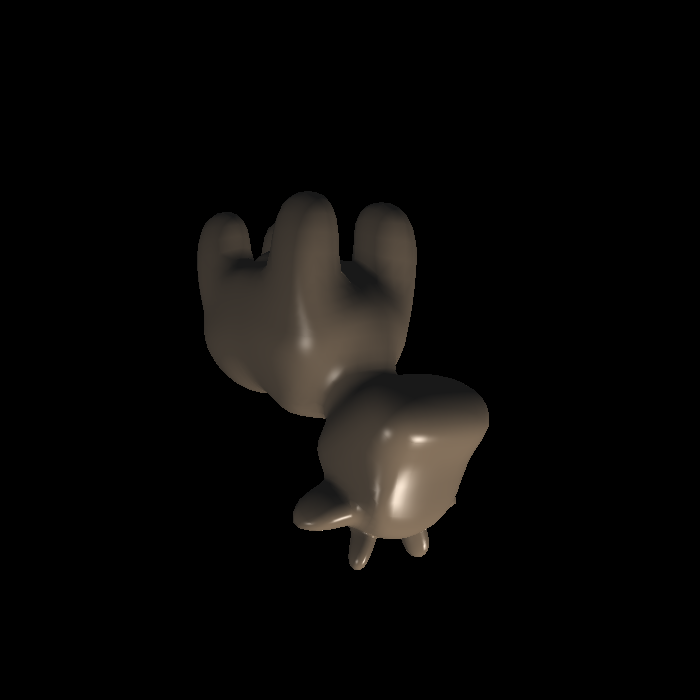
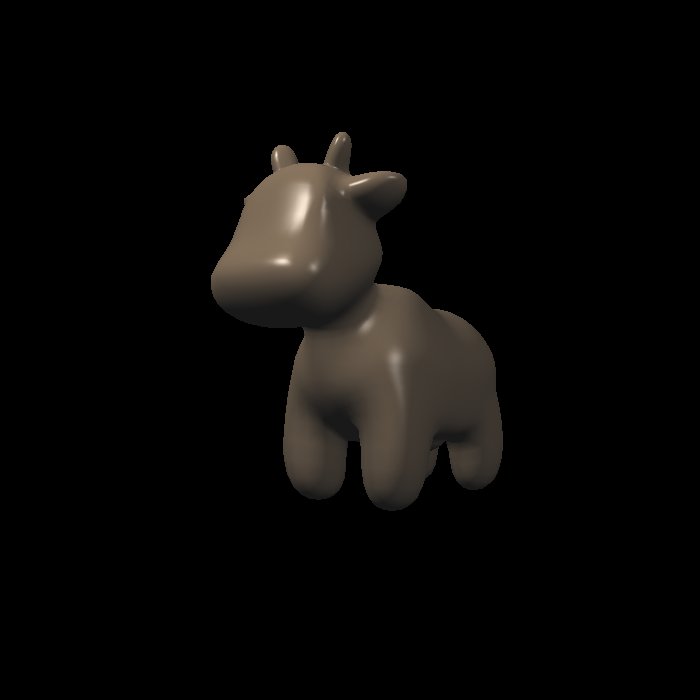
Solve the problem about reverse

Changed region(s): [[0.27, 0.18, 0.72, 0.81]]

diff --git a/GAMES3/rasterizer.cpp b/GAMES3/rasterizer.cpp
@@ -280,7 +280,7 @@ void rst::rasterizer::rasterize_triangle(const Triangle& t, const std::array<Eig
             // predefine the value of pixels 
             float minDepth = FLT_MAX;
 
-                // if a sample point of a pixel located in a triangle
+            // if a sample point of a pixel located in a triangle
             if (insideTriangle(x + 0.5f, y + 0.5f, t.v))
             {
                 // barycentric coordinates
@@ -294,7 +294,7 @@ void rst::rasterizer::rasterize_triangle(const Triangle& t, const std::array<Eig
                 float Z = 1.0f / (alpha / v[0].w() + beta / v[1].w() + gamma / v[2].w());
                 float zp = alpha * v[0].z() / v[0].w() + beta * v[1].z() / v[1].w() + gamma * v[2].z() / v[2].w();
                 zp *= Z;
-                zp = std::min(minDepth, zp);
+                zp = -std::min(minDepth, zp);
 
                 if (zp < depth_buf[get_index(x, y)])
                 {

diff --git a/GAMES3/main.cpp b/GAMES3/main.cpp
@@ -62,8 +62,8 @@ Eigen::Matrix4f get_projection_matrix(float eye_fov, float aspect_ratio, float z
     float r = aspect_ratio * t;
     float l = -r;
     float b = -t;
-    float n = zNear;
-    float f = zFar;
+    float n = -zNear;
+    float f = -zFar;
 
     // build a matrix of orthographic projection
     Eigen::Matrix4f orthoA(4, 4);
@@ -89,7 +89,7 @@ Eigen::Matrix4f get_projection_matrix(float eye_fov, float aspect_ratio, float z
         0.0f, 0.0f, 1.0f, 0.0f;
 
     // compute the projection matrix
-    projection = ortho * pto;
+    projection *= ortho * pto;
 
     return projection;
 }

diff --git a/GAMES2/main.cpp b/GAMES2/main.cpp
@@ -44,8 +44,8 @@ Eigen::Matrix4f get_projection_matrix(float eye_fov, float aspect_ratio,
     float r = aspect_ratio * t;
     float l = -r;
     float b = -t;
-    float n = zNear;
-    float f = zFar;
+    float n = -zNear;
+    float f =-zFar;
 
     // build a matrix of orthographic projection
     Eigen::Matrix4f orthoA(4, 4);
@@ -71,7 +71,7 @@ Eigen::Matrix4f get_projection_matrix(float eye_fov, float aspect_ratio,
         0.0f, 0.0f, 1.0f, 0.0f;
 
     // compute the projection matrix
-    projection = ortho * pto;
+    projection *= ortho * pto;
 
     return projection;
 }
